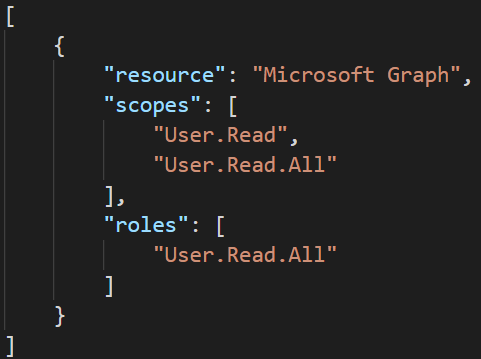
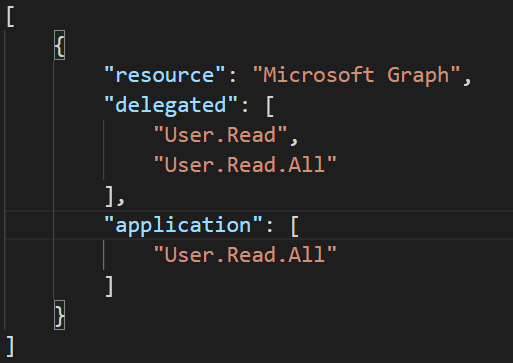
fix(aad): update plugin name, update permission file

diff --git a/packages/fx-core/src/plugins/resource/aad/plugin.ts b/packages/fx-core/src/plugins/resource/aad/plugin.ts
@@ -463,7 +463,21 @@ export class AadAppForTeamsImpl {
       requiredResourceAccess.resourceAppId = resourceId;
       requiredResourceAccess.resourceAccess = [];
 
-      permission.roles?.forEach((roleName) => {
+      if (!permission.delegated) {
+        permission.delegated = [];
+      }
+
+      if (!permission.application) {
+        permission.application = [];
+      }
+
+      permission.delegated = permission.delegated?.concat(permission.scopes);
+      permission.delegated = permission.delegated?.filter((scopeName, i) => i === permission.delegated?.indexOf(scopeName));
+
+      permission.application = permission.application?.concat(permission.roles);
+      permission.application = permission.application?.filter((roleName, i) => i === permission.application?.indexOf(roleName));
+
+      permission.application?.forEach((roleName) => {
         const resourceAccess: ResourceAccess = {
           id: roleName,
           type: "Role",
@@ -486,7 +500,7 @@ export class AadAppForTeamsImpl {
         requiredResourceAccess.resourceAccess!.push(resourceAccess);
       });
 
-      permission.scopes?.forEach((scopeName) => {
+      permission.delegated?.forEach((scopeName) => {
         const resourceAccess: ResourceAccess = {
           id: scopeName,
           type: "Scope",

diff --git a/packages/fx-core/src/plugins/resource/aad/constants.ts b/packages/fx-core/src/plugins/resource/aad/constants.ts
@@ -50,7 +50,7 @@ export class Constants {
 }
 
 export class Plugins {
-  static pluginName = "Aad App for Teams App";
+  static pluginName = "AAD App Registration";
   static pluginNameComplex = "fx-resource-aad-app-for-teams";
   static pluginNameShort = "aad";
   static frontendHosting = "fx-resource-frontend-hosting";

diff --git a/packages/fx-core/src/plugins/solution/fx-solution/constants.ts b/packages/fx-core/src/plugins/solution/fx-solution/constants.ts
@@ -46,7 +46,7 @@ export const LOCAL_BOT_ID = "localBotId";
 export const DEFAULT_PERMISSION_REQUEST = [
     {
         resource: "Microsoft Graph",
-        scopes: ["User.Read"],
+        delegated: ["User.Read"],
     },
 ];
 

diff --git a/packages/fx-core/src/plugins/resource/aad/interfaces/IPermission.ts b/packages/fx-core/src/plugins/resource/aad/interfaces/IPermission.ts
@@ -5,4 +5,6 @@ export interface IPermission {
   resource: string;
   scopes: string[];
   roles: string[];
+  delegated: string[];
+  application: string[];
 }

diff --git a/docs/fx-core/aad-help.md b/docs/fx-core/aad-help.md
@@ -78,14 +78,14 @@ A correct permission file should be formated as an JSON array as following:
 
 For `resource`, please fill in "Microsoft Graph".
 
-For the difference of `scopes` and `roles`, please refer to [this link](https://docs.microsoft.com/en-us/azure/active-directory/develop/v2-permissions-and-consent#permission-types).
+For the difference of `delegated` and `application`, please refer to [this link](https://docs.microsoft.com/en-us/azure/active-directory/develop/v2-permissions-and-consent#permission-types).
 
-All allowed scopes can be found by running 
+All allowed delegated permissions can be found by running 
 ```
 az ad sp show --id 00000003-0000-0000-c000-000000000000 --query "oauth2Permissions[].value"
 ```
 
-All allowed roles can be found by running 
+All allowed application permissions can be found by running 
 ```
 az ad sp show --id 00000003-0000-0000-c000-000000000000 --query "appRoles[].value"
 ```
